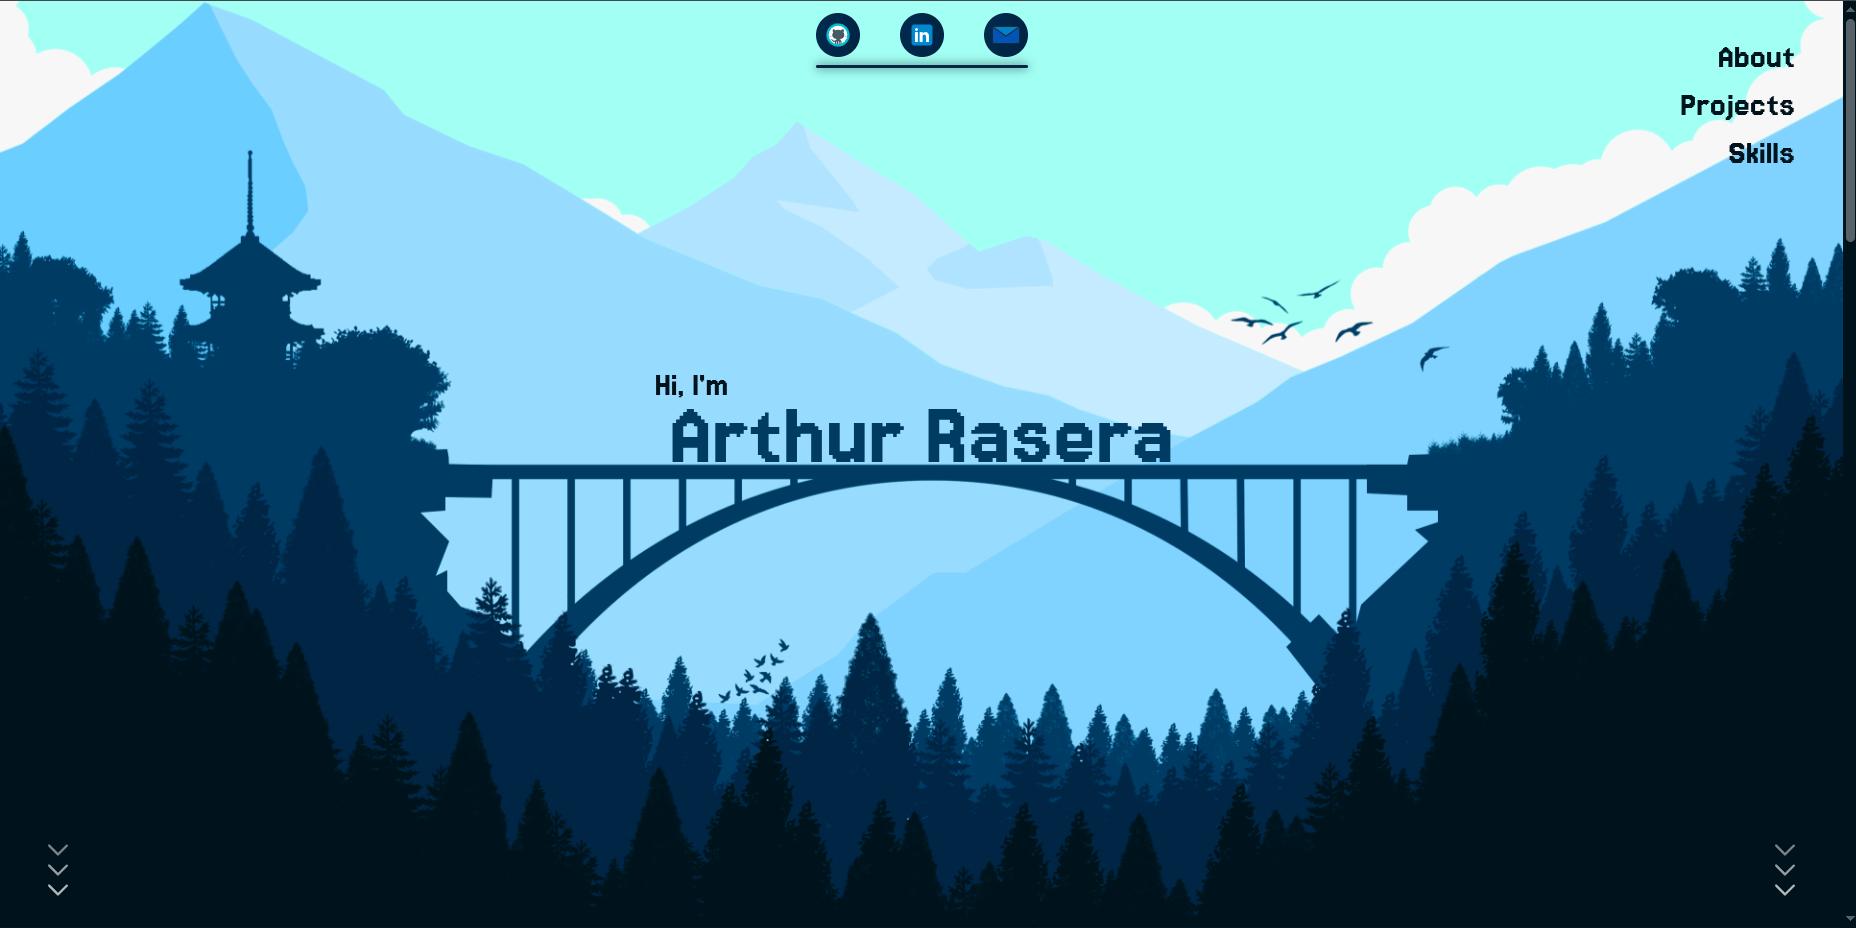
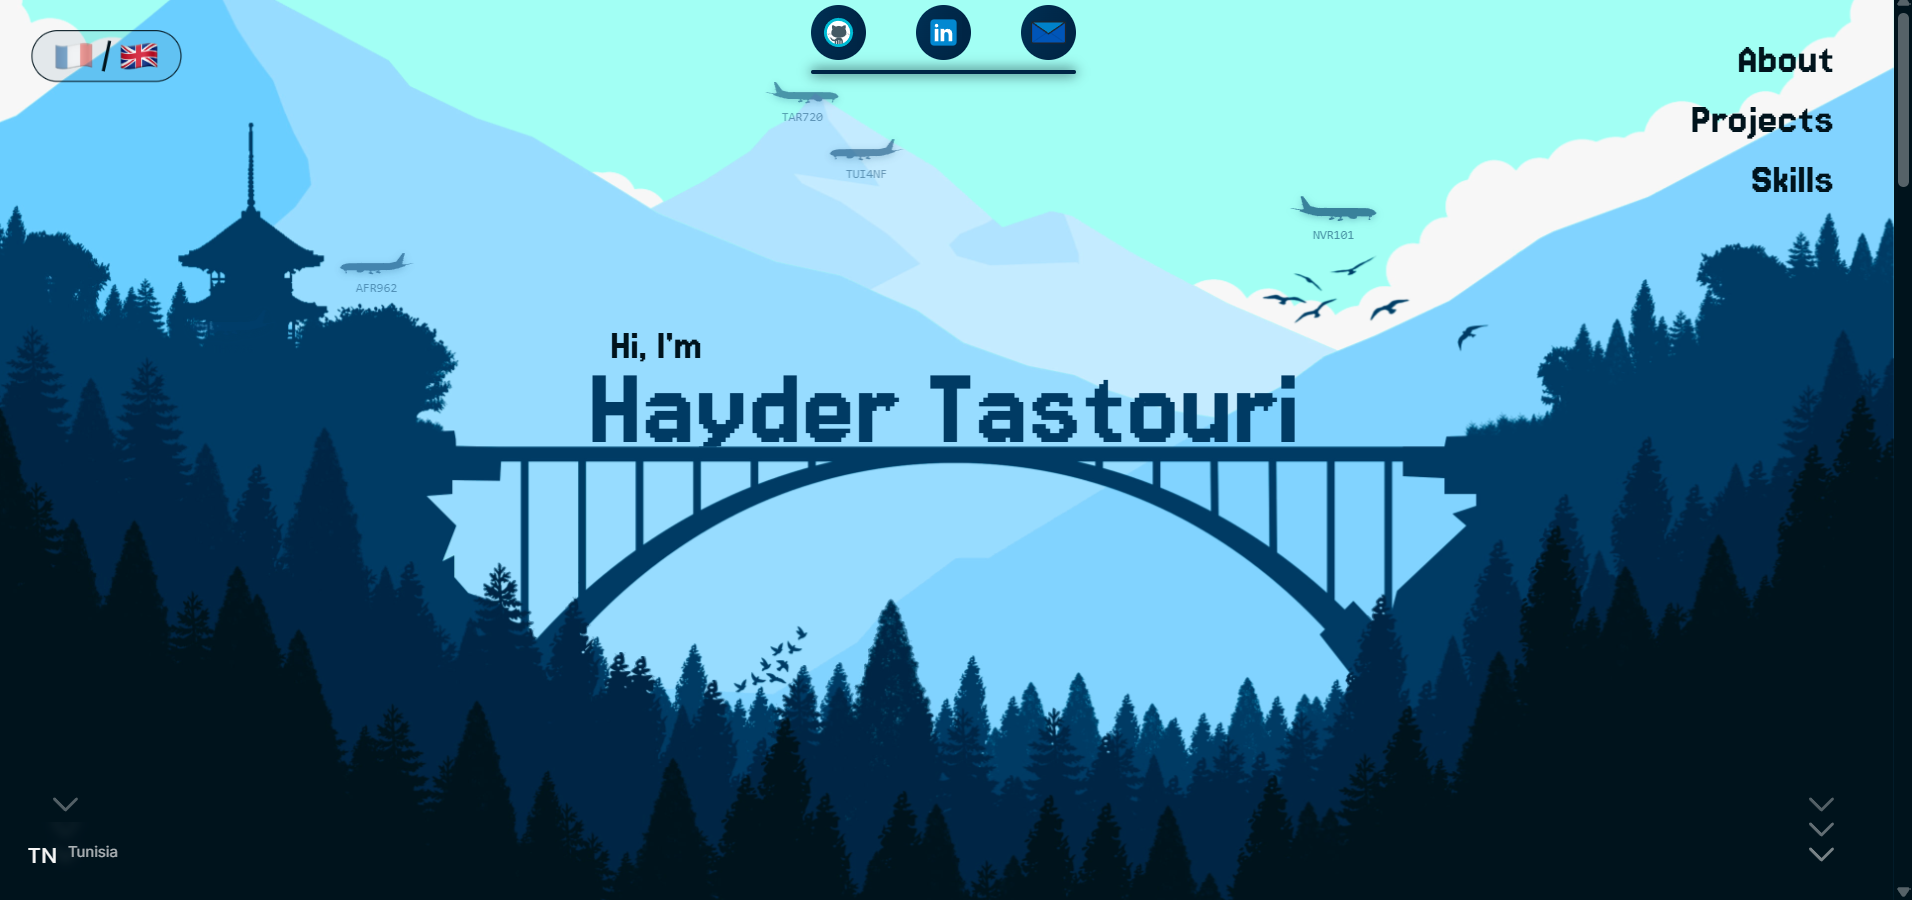
Update portfolio: Vercel deployment, robotics focus, and new project screenshots

diff --git a/lib/metadata.tsx b/lib/metadata.tsx
@@ -5,38 +5,41 @@
 import type { Metadata } from "next";
 
 const metadataInfos: Metadata = {
-  title: "Hayder Tastouri Portfolio | Software Developer",
+  title: "Hayder Tastouri Portfolio | Robotics Software Engineer",
   description:
-    "Portfolio of Hayder Tastouri, software engineer passionate about web development, artificial intelligence, and SAP systems. Explore my projects, skills, and professional experience.",
+    "Portfolio of Hayder Tastouri, robotics software engineer passionate about autonomous drones, UAV systems, and AI-driven robotics. Explore my projects, skills, and professional experience.",
   keywords: [
     "Hayder Tastouri",
-    "web developer",
+    "robotics software engineer",
+    "UAV",
+    "autonomous drones",
+    "ROS2",
     "portfolio",
-    "Next.js",
-    "React",
+    "embedded systems",
     "artificial intelligence",
-    "SAP development",
-    "DevOps",
+    "multi-robot systems",
+    "ArduPilot",
     "Python",
     "TypeScript",
     "C++",
-    "software engineer",
+    "Next.js",
+    "React",
   ],
   authors: [{ name: "Hayder Tastouri", url: "https://github.com/hayder-tatsouri/" }],
   creator: "Hayder Tastouri",
   publisher: "Hayder Tastouri",
   openGraph: {
-    title: "Hayder Tastouri Portfolio | Software Developer",
+    title: "Hayder Tastouri Portfolio | Robotics Software Engineer",
     description:
-      "Discover the portfolio of Hayder Tastouri: web apps with Next.js, AI projects using Python, low-level and SAP development, and DevOps tools.",
-    url: "https://hayder-tatsouri.github.io/portfolio/",
+      "Discover the portfolio of Hayder Tastouri: autonomous drone and UAV projects, ROS2 multi-robot systems, AI-powered robotics, and embedded systems development.",
+    url: "https://hayder-tastouri-portfolio.vercel.app/",
     siteName: "Hayder Tastouri Portfolio",
     images: [
       {
-        url: "https://hayder-tatsouri.github.io/portfolio/preview.png", // Replace with your real image URL
+        url: "https://hayder-tastouri-portfolio.vercel.app/preview.png", // Replace with your real image URL
         width: 1856,
         height: 928,
-        alt: "Preview of Hayder Tastouri's developer portfolio",
+        alt: "Preview of Hayder Tastouri's robotics software engineer portfolio",
       },
     ],
     locale: "en_US",
@@ -45,7 +48,7 @@ const metadataInfos: Metadata = {
   icons: {
     icon: "/img/favicon.png",
   },
-  metadataBase: new URL("https://hayder-tatsouri.github.io/portfolio/"),
+  metadataBase: new URL("https://hayder-tastouri-portfolio.vercel.app/"),
 };
 
 export default metadataInfos;

diff --git a/lang/data-texts-fr.tsx b/lang/data-texts-fr.tsx
@@ -23,7 +23,7 @@ const textsFr = {
   },
   about: {
     altPicture: "Photo de profil",
-    desc: "Salut, je suis étudiant en deuxième année de génie informatique à l’ENSI Manouba, passionné par l’aéronautique, les systèmes autonomes et l’IA agentique. J’aime construire des projets qui combinent robotique, drones et IA pour résoudre des problèmes concrets.",
+    desc: "Salut, je suis étudiant en dernière année de génie informatique à l'ENSI Manouba, passionné par la robotique, l'aéronautique, les systèmes autonomes et l'IA agentique. J'aime construire des projets qui combinent robotique, drones et IA pour résoudre des problèmes concrets.",
     seeCV: "Cliquez pour voir mon CV",
     timeline: {
       bac: {

diff --git a/lang/data-texts-en.tsx b/lang/data-texts-en.tsx
@@ -23,7 +23,7 @@ const textsEn = {
   },
   about: {
     altPicture: "Profile picture",
-    desc: "Hi, I'm a second-year Computer Science Engineering student at ENSI Manouba, passionate about aeronautics, autonomous systems, and agentic AI. I enjoy building projects that combine robotics, drones, and AI to solve real problems.",
+    desc: "Hi, I'm a final-year Computer Science Engineering student at ENSI Manouba, passionate about robotics, aeronautics, autonomous systems, and agentic AI. I enjoy building projects that combine robotics, drones, and AI to solve real problems.",
     seeCV: "Click to view my CV",
     timeline: {
       bac: {

diff --git a/README.md b/README.md
@@ -12,10 +12,10 @@
 
 ## 📝 Overview
 
-Portfolio deployed on `GitHub Pages`. The main idea behind this portfolio was to use the `parallax` effect. I decided to use an image from the game `Firewatch` and build my color palette around it. I created the different parallax layers myself.
+Portfolio deployed on `Vercel`. The main idea behind this portfolio was to use the `parallax` effect. I built it around a plane/flight theme to reflect my passion for aeronautics and drones, and created the different parallax layers myself.
 
 This site is animated and responsive, but nothing beats visiting it to see for yourself.
-- 🚀 [Go to my portfolio](https://hayder-tatsouri.github.io/portfolio/)
+- 🚀 [Go to my portfolio](https://hayder-tastouri-portfolio.vercel.app/)
 
 ## 🧰 Toolbox
 
